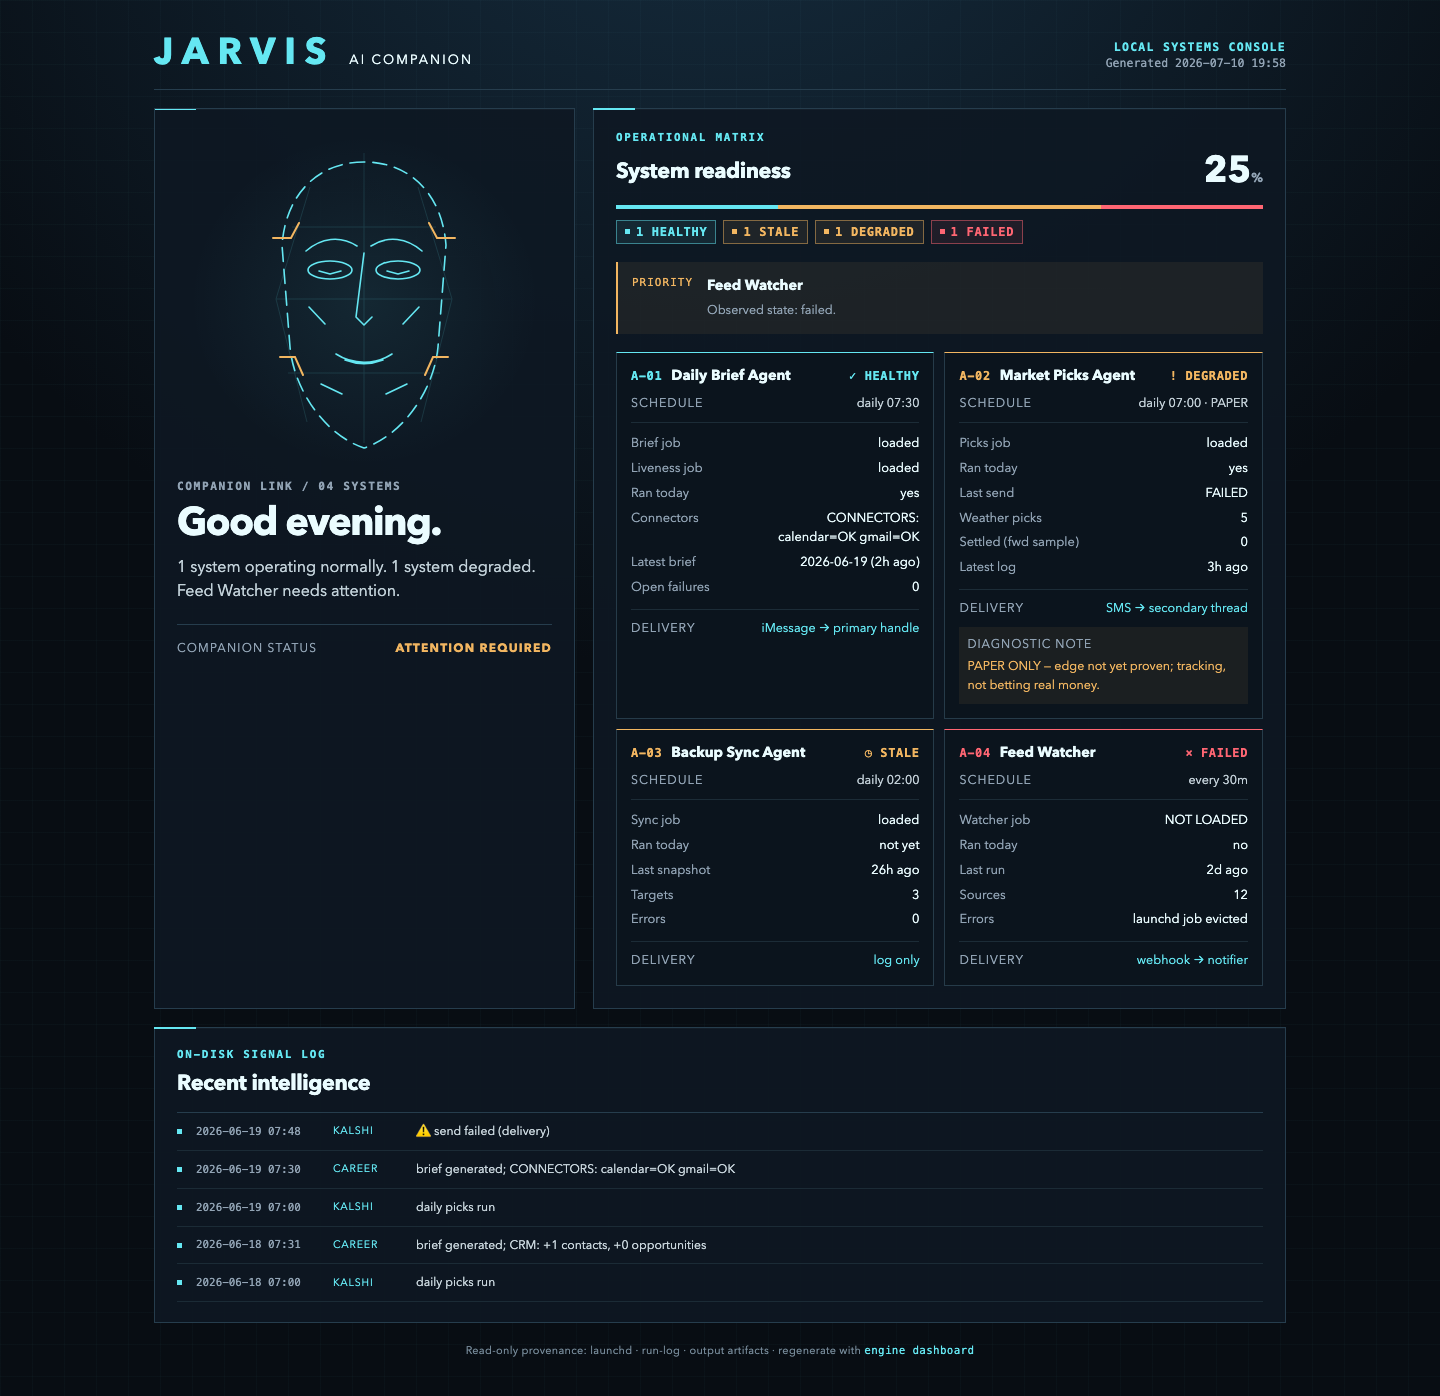
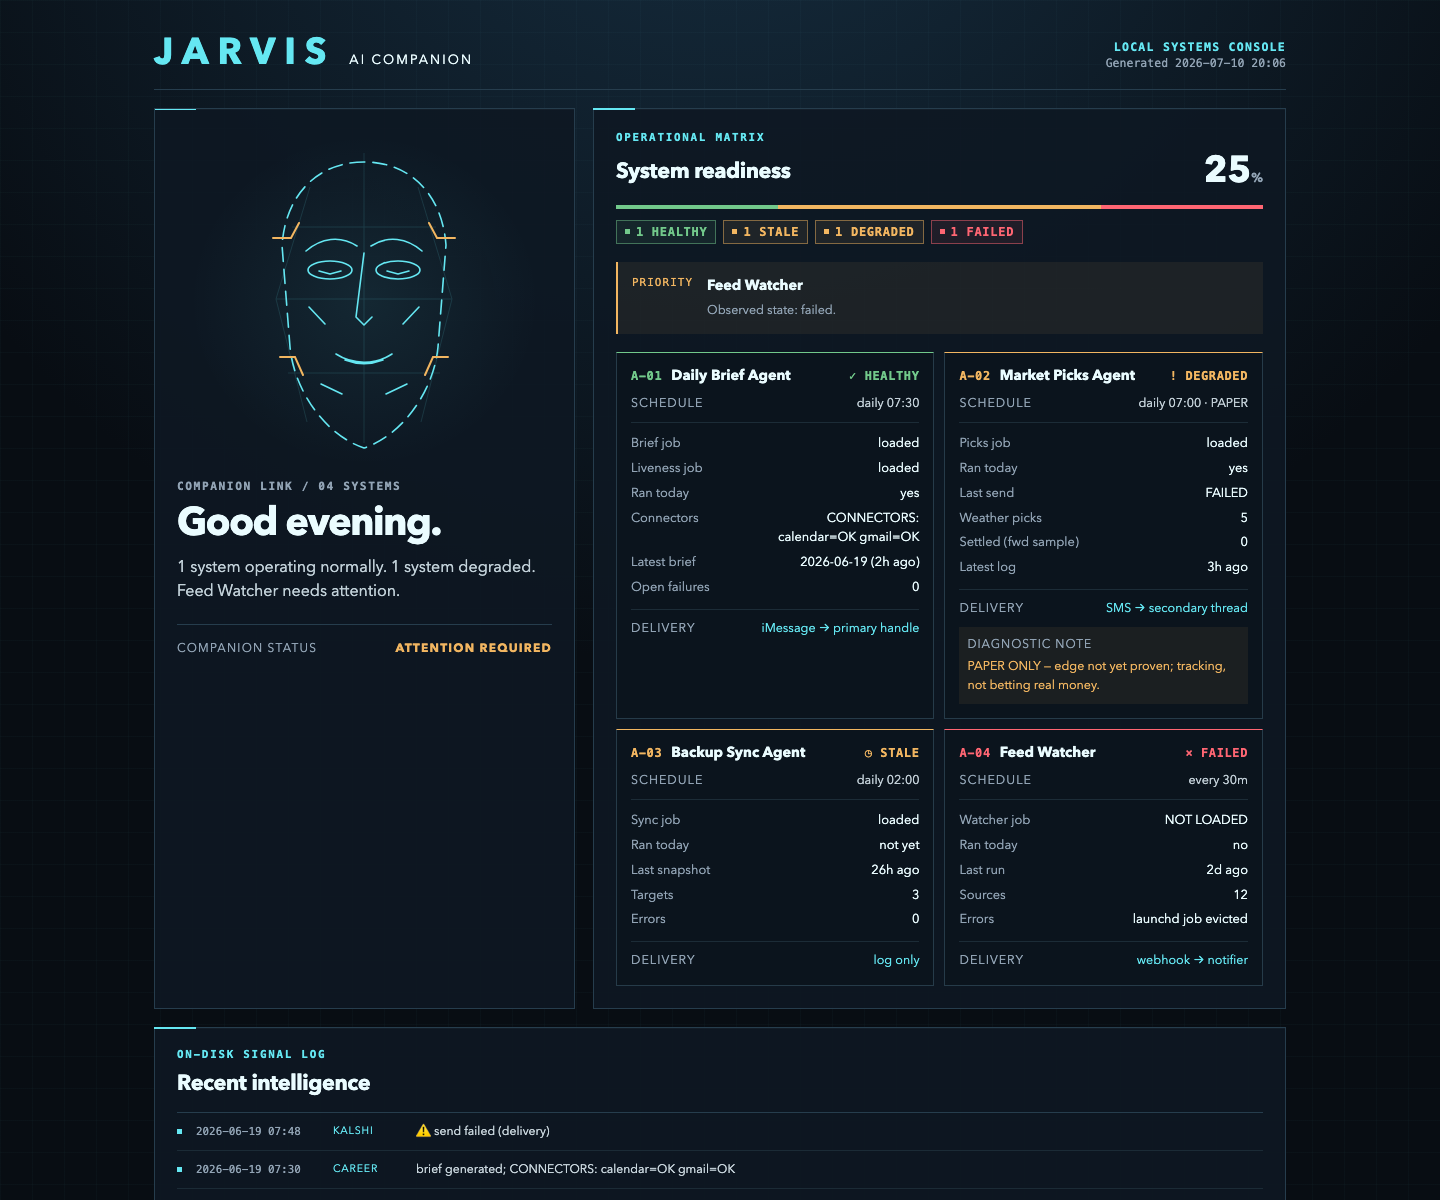
Separate healthy status from Jarvis accent
Use a restrained green for healthy telemetry so every semantic signal remains visually honest while preserving cyan for interface identity.

diff --git a/demo.html b/demo.html
@@ -154,7 +154,7 @@
 <div class="shell">
   <header>
     <div class="brand-line"><span class="wordmark">JARVIS</span> <span class="product">AI Companion</span></div>
-    <div class="generated"><strong>Local systems console</strong> Generated 2026-07-10 19:58</div>
+    <div class="generated"><strong>Local systems console</strong> Generated 2026-07-10 20:06</div>
   </header>
   <main class="hud">
     <section class="identity-panel" aria-labelledby="companion-heading">
@@ -189,15 +189,15 @@
         <h2 id="readiness-heading">System readiness</h2>
         <div class="readiness-score">25<small>%</small></div>
       </div>
-      <div class="meter"><span style="flex:1;background:#65e7f2;"></span><span style="flex:1;background:#f2b661;"></span><span style="flex:1;background:#f2b661;"></span><span style="flex:1;background:#ff6673;"></span></div>
-      <div class="status-pills"><span class="status-pill" style="--pill:#65e7f2;">1 HEALTHY</span> <span class="status-pill" style="--pill:#f2b661;">1 STALE</span> <span class="status-pill" style="--pill:#f2b661;">1 DEGRADED</span> <span class="status-pill" style="--pill:#ff6673;">1 FAILED</span></div>
+      <div class="meter"><span style="flex:1;background:#72c98b;"></span><span style="flex:1;background:#f2b661;"></span><span style="flex:1;background:#f2b661;"></span><span style="flex:1;background:#ff6673;"></span></div>
+      <div class="status-pills"><span class="status-pill" style="--pill:#72c98b;">1 HEALTHY</span> <span class="status-pill" style="--pill:#f2b661;">1 STALE</span> <span class="status-pill" style="--pill:#f2b661;">1 DEGRADED</span> <span class="status-pill" style="--pill:#ff6673;">1 FAILED</span></div>
       <div class="priority">
         <span>Priority</span>
         <strong>Feed Watcher</strong>
         <p>Observed state: failed.</p>
       </div>
       <div class="agent-grid">
-<article class="agent-module" style="--status:#65e7f2;">
+<article class="agent-module" style="--status:#72c98b;">
   <div class="module-heading">
     <span class="agent-index">A-01</span>
     <h3>Daily Brief Agent</h3>

diff --git a/tests/test_dashboard.py b/tests/test_dashboard.py
@@ -20,6 +20,32 @@ class DashboardPresentationTests(unittest.TestCase):
         self.assertIsNotNone(size, f"missing explicit rem font-size for {selector}")
         self.assertGreaterEqual(float(size.group(1)), minimum)
 
+    def test_status_palette_uses_distinct_semantic_colors(self):
+        primary_cyan = "#65e7f2"
+        expected = {
+            "HEALTHY": "#72c98b",
+            "STALE": "#f2b661",
+            "DEGRADED": "#f2b661",
+            "FAILED": "#ff6673",
+        }
+
+        self.assertEqual(dashboard.COLORS, expected)
+        self.assertNotEqual(dashboard.COLORS["HEALTHY"], primary_cyan)
+        red, green, blue = (
+            int(dashboard.COLORS["HEALTHY"][offset:offset + 2], 16)
+            for offset in (1, 3, 5)
+        )
+        self.assertGreater(green, red)
+        self.assertGreater(green, blue)
+        self.assertEqual(
+            len({
+                dashboard.COLORS["HEALTHY"],
+                dashboard.COLORS["STALE"],
+                dashboard.COLORS["FAILED"],
+            }),
+            3,
+        )
+
     def test_greeting_uses_local_hour(self):
         self.assertEqual(
             dashboard.greeting(datetime(2026, 7, 10, 9)),

diff --git a/gen-dashboard.py b/gen-dashboard.py
@@ -251,7 +251,7 @@ def companion_state(agents: list[dict]) -> dict[str, str]:
 
 
 COLORS = {
-    "HEALTHY": "#65e7f2", "STALE": "#f2b661", "DEGRADED": "#f2b661", "FAILED": "#ff6673",
+    "HEALTHY": "#72c98b", "STALE": "#f2b661", "DEGRADED": "#f2b661", "FAILED": "#ff6673",
 }
 STATUS_GLYPH = {"HEALTHY": "✓", "STALE": "◷", "DEGRADED": "!", "FAILED": "×"}
 